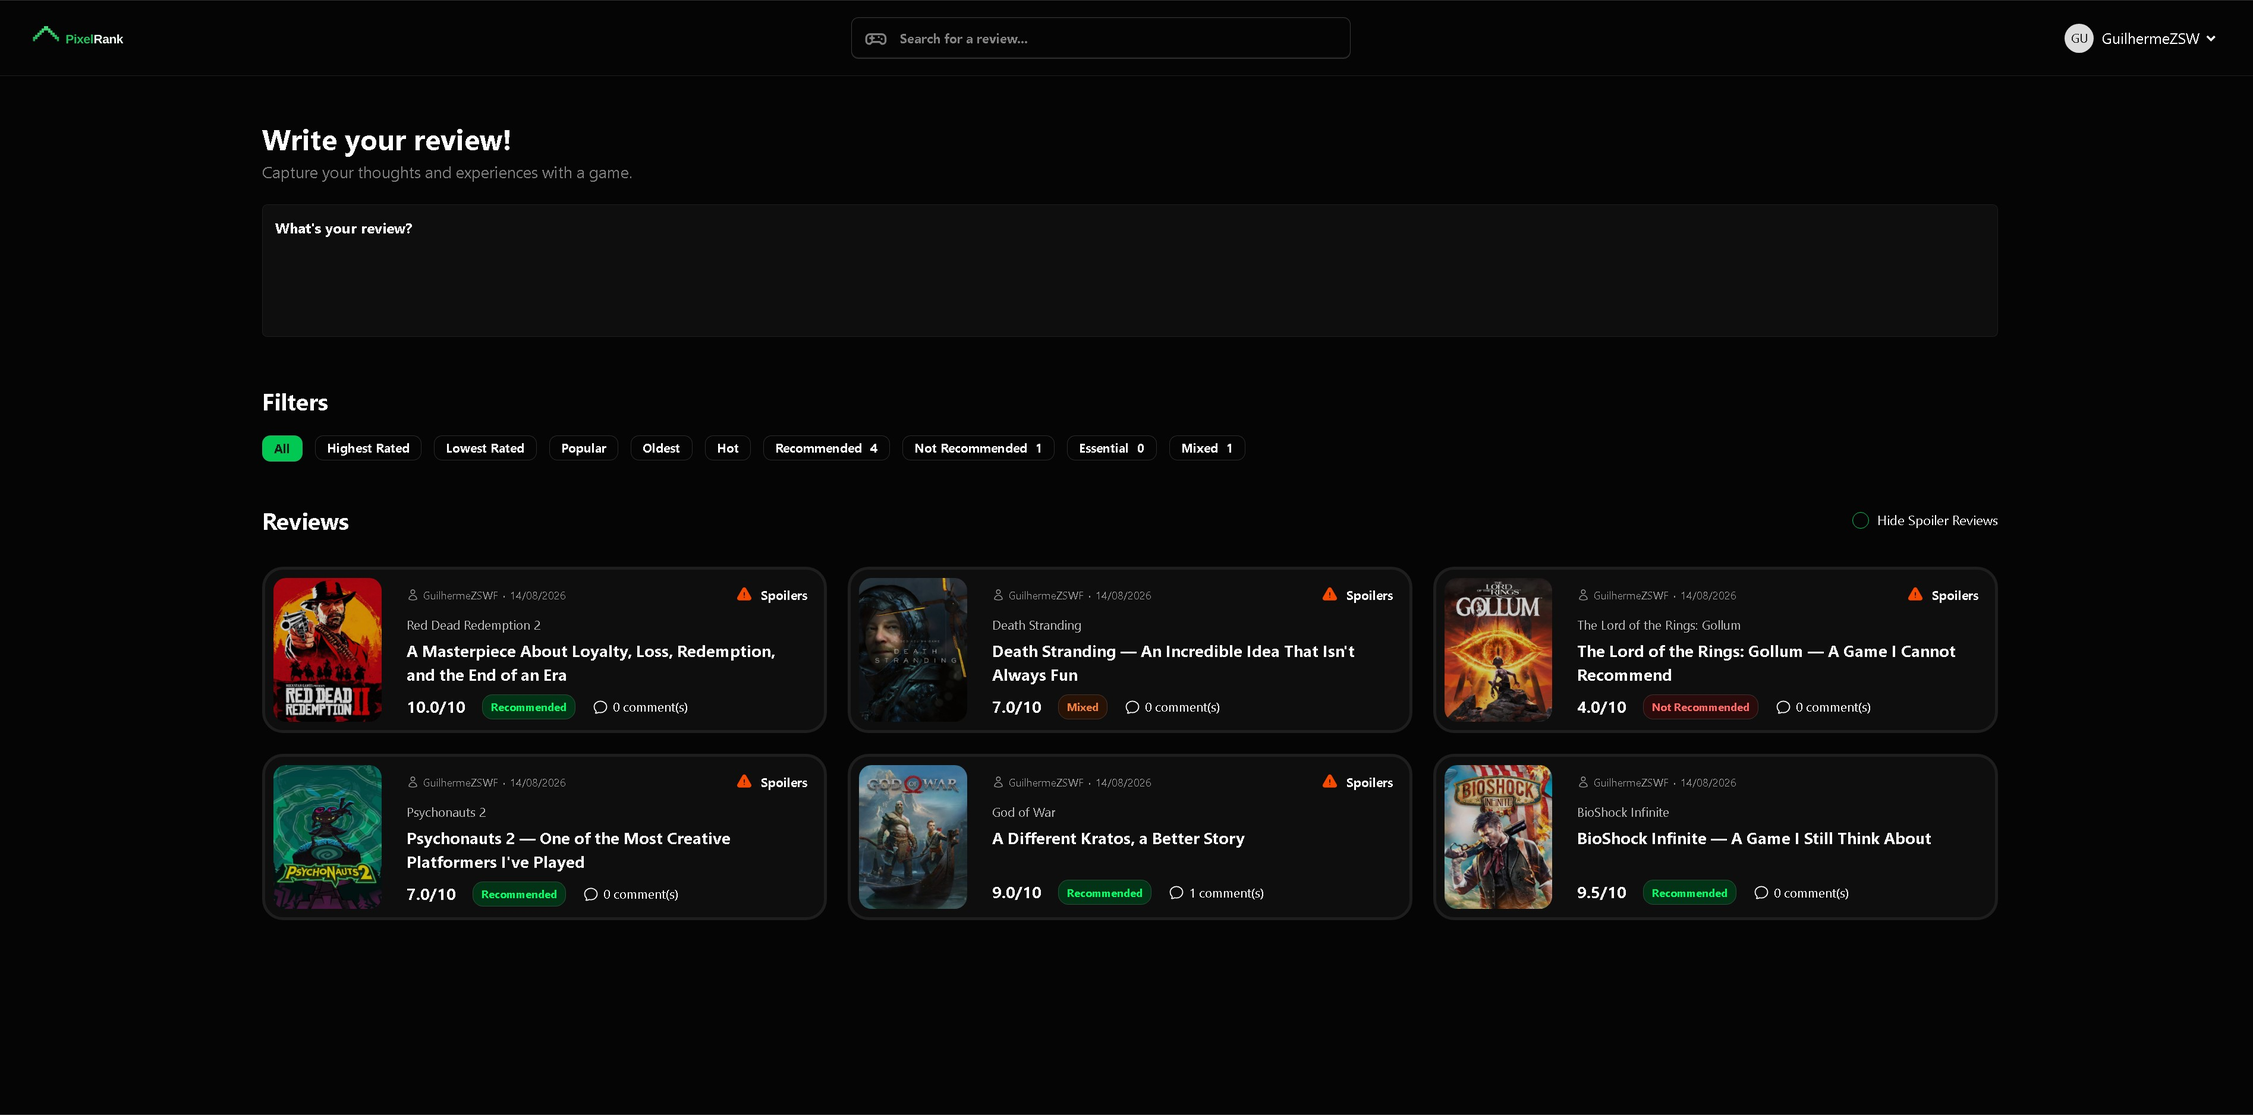
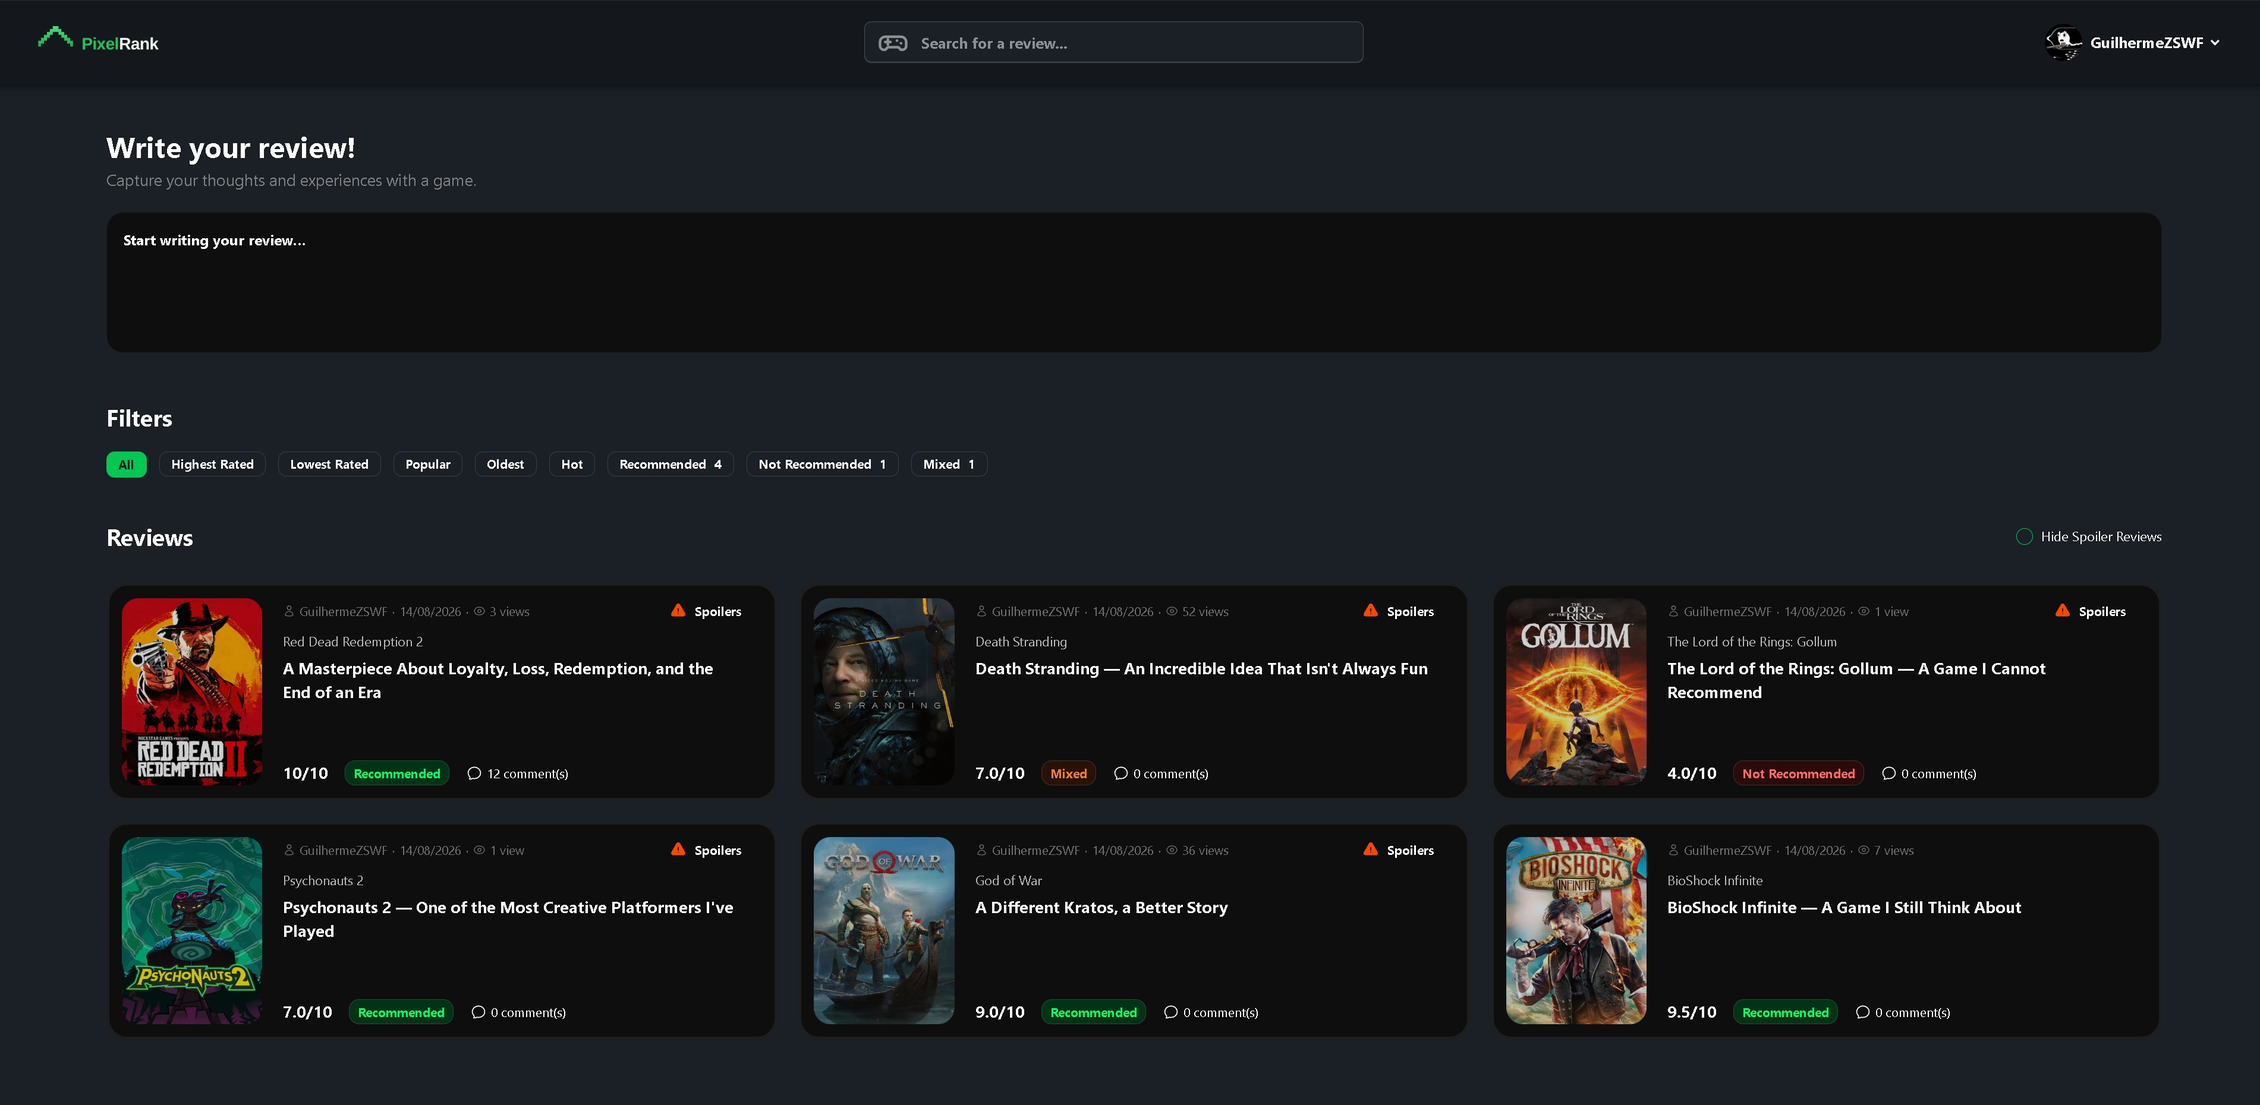
fixed bugs

diff --git a/resources/views/components/article-link.blade.php b/resources/views/components/article-link.blade.php
@@ -6,14 +6,14 @@
             class="sm:w-full md:flex-1/4 lg:flex-1/4 bg-[#0E0E0E]" @endif>
             <article
                 class="rounded-[10px] border-3 border-[#88888822] group hover:border-primary hover:bg-[#141414] transition-all duration-300 ease-in-out">
-                <div class="flex flex-row">
-                    <x-cover class="h-[140px] rounded-[12px] object-contain" src="https://images.igdb.com/igdb/image/upload/t_1080p/{{ $review->game_cover }}.jpg"
+                <div class="flex flex-row p-3">
+                    <x-cover class="h-[140px] rounded-[5px] object-contain" src="https://images.igdb.com/igdb/image/upload/t_1080p/{{ $review->game_cover }}.jpg"
                         alt="Review Cover"></x-cover>
-                    <div class="py-4 px-3 flex flex-row justify-between w-full">
+                    <div class="flex flex-row justify-between w-full px-5">
                         <div class="flex flex-col justify-between flex-5/6">
                             <h2 class="font-bold text-[1rem] flex flex-row gap-3 items-center">{{ $review->title }} <span class="text-[1rem]">&middot;</span> <span class="flex flex-row items-center gap-1 opacity-50 text-[.80rem]">
                                     <x-heroicon-o-eye
-                                        class="size-3.5" />{{ $review->views }} @if($review->views === 0 || $review->views === 1 ) view @else views @endif
+                                        class="size-3.5" />{{ $review->views }} @if($review->views === 0 || $review->views === 1) view @else views @endif
                                 </span></h2>
                             <p class="text-sm text-gray-400 text-[.85rem] py-2 break-all">{{ Str::limit($review->body, 250) }}
                             </p>
@@ -41,21 +41,20 @@
         </a>
 @else
     <a href="/reviews/{{ $review->id }}"
-    class="bg-[#0E0E0E] {{ $review->contains_spoilers ? 'review-link-spoiler' : '' }} h-60 rounded-[20px]">
+    class="bg-[#0E0E0E] {{ $review->contains_spoilers ? 'review-link-spoiler' : '' }} rounded-[20px]">
         <article
-            class="rounded-[20px] p-1 h-[100%] border-3 border-[#88888822] group hover:border-primary hover:bg-[#141414] transition-all duration-300 ease-in-out">
-            <div class="flex flex-row justify-between h-full">
-                <x-cover class="h-full object-contain rounded-[20px]"
-                    src="https://images.igdb.com/igdb/image/upload/t_1080p/{{ $review->game_cover }}.jpg" alt="Review Cover"></x-cover>
-                    <div class="flex flex-col justify-start gap-2 flex-5/6 px-4 py-3">
+            class="rounded-[20px] p-1 border-3 border-[#88888822] group hover:border-primary hover:bg-[#141414] transition-all duration-300 ease-in-out">
+            <div class="flex flex-row justify-between h-full p-2">
+                    <x-cover class="h-45 rounded-2xl object-contain" src="https://images.igdb.com/igdb/image/upload/t_1080p/{{ $review->game_cover }}.jpg" alt="Review Cover"></x-cover>
+                    <div class="flex flex-col justify-start gap-2 flex-5/6 px-5">
                         <ul class="flex flex-row justify-between items-center gap-3 text-[.75rem]">
                             <li class="flex flex-row justify-center items-center gap-1 opacity-40">
                                 <span class="flex flex-row items-center gap-1">
                                     <x-heroicon-o-user class="size-3" />{{ $review->user->nickname }}
                                 </span> <span class="text-[1rem]">&middot;</span>
-                                {{ $review->getPublishedDate() }} <span class="text-[1rem]">&middot;</span> <span class="flex flex-row items-center gap-1">
+                                {{ $review->getPublishedDate() }} <span class="text-[1rem]">&middot;</span> <span class="flex flex-row items-center gap-1 text-[.75rem]">
                                     <x-heroicon-o-eye
-                                        class="size-3" />{{ $review->views }} @if($review->views === 0 || $review->views === 1 ) view @else views @endif
+                                        class="size-3" />{{ $review->views }} @if($review->views === 0 || $review->views === 1) view @else views @endif
                                 </span>
                             </li>
                             @if($review->contains_spoilers)
@@ -66,17 +65,15 @@
                             <h2 class="font-bold text-[.95rem] flex flex-col gap-1"><span
                                     class="group-hover:text-accent font-normal transition-all duration-300 ease-in-out break-all wrap-break-word text-[.80rem] opacity-70">{{Str::limit($review->game_name, 190)}}</span>{{Str::limit($review->title, 150)}}
                             </h2>
-                            <p class="pt-2">{{ Str::limit($review->body, 100) }}</p>
                         </div>
                         <ul class="flex flex-row justify-start gap-4">
-                             <li class="text-[.95rem] font-bold">{{ $review->rating }}/10</li>
+                          <li class="text-[.95rem] font-bold">{{ $review->rating === "10.0" ? 10 : $review->rating }}/10</li>
                             <li>
                                 <x-badge-link type="label"
-                                    class="rounded-[10px] px-2 py-0 font-bold text-[0.65rem]">{{ $review->recommendation->label() }}</x-badge-link>
+                                    class="rounded-[10px] px-2 py-0 font-bold text-[.70rem]">{{ $review->recommendation->label() }}</x-badge-link>
                             </li>
                             <li class="flex flex-row items-center gap-1 text-[.75rem]"><x-heroicon-o-chat-bubble-oval-left
                                     class="size-4" />{{ count($review->comments) }} comment(s)</li>
-
                         </ul>
                     </div>
             </div>

diff --git a/resources/views/reviews/show.blade.php b/resources/views/reviews/show.blade.php
@@ -21,16 +21,16 @@
             </nav>
         </x-section>
         <x-section class="flex flex-col">
-            <div class="flex flex-row bg-[#181818] p-3 rounded-2xl">
-                 <x-cover class="h-full w-70 object-contain rounded-[20px]"
+            <div class="flex flex-row bg-[#181818] p-5 rounded-2xl">
+                 <x-cover class="h-full w-60 object-contain rounded-[20px]"
                 src="https://images.igdb.com/igdb/image/upload/t_1080p/{{ $review->game_cover }}.jpg" alt="Review Cover"></x-cover>
-                <div class="flex flex-col justify-between p-4">
+                <div class="flex flex-col justify-between px-7">
                     <h2 class="flex flex-row items-center text-[.85rem] gap-2"><img @if(!empty($review->user->avatar)) src="{{ asset($review->user->avatar) }}" @else src="https://ui-avatars.com/api/?name={{ urlencode($review->user->nickname) }}"@endif alt="User" class="rounded-[50%] h-8 border-2 border-secondary"> <div><span class="opacity-70">Review by </span><strong class="font-bold">{{ $review->user->nickname }}</strong></div><span class="text-[1rem] opacity-70">&middot;</span> <span class="flex flex-row items-center gap-1.5 opacity-70 text-[.80rem]">
                                     <x-heroicon-o-eye
                                         class="size-3.5" />{{ $review->views }} @if($review->views === 0 || $review->views === 1 ) view @else views @endif
                                 </span></h2>
                     <ul class="flex flex-row flex-wrap gap-4 rounded-2xl">
-                        <li class="w-[calc(50%-0.5rem)] ">Plataforma(s)<br><strong>{{ $game['platforms'] }}</strong>
+                        <li class="w-[calc(50%-0.5rem)] ">@if($game['platforms_count'] > 1) Plataformas @else Plataforma @endif<br><strong>{{ $game['platforms'] }}</strong>
                         </li>
                         <li class="w-[calc(50%-0.5rem)] ">Plataforma Jogada<br><strong>{{ $review->platform_playable }}</strong></li>
                         <li class="w-[calc(50%-0.5rem)] ">Lançamento<br><strong>{{ $game['release_date'] }}</strong>
@@ -182,11 +182,11 @@
     <li id="comment-${data.comment.id}" class="flex flex-row gap-4 border-b border-white/8 pt-8 pb-4">
 
         <img src="${avatar}"
-             alt="User" class="rounded-[50%] h-12">
+             alt="User" class="rounded-[50%] h-13">
 
         <div class="w-full">
-            <span class="flex flex-row justify-between mb-5"">
-                 <h3 class="font-bold text-[.90rem] flex flex-col">${data.comment.user.nickname} <span
+            <span class="flex flex-row justify-between mb-3">
+                 <h3 class="font-bold text-[.90rem] flex flex-row gap-2 items-center">${data.comment.user.nickname} <span class="text-[1rem] text-[#ffffff97]">&middot;</span><span
                         class="text-[.75rem] text-[#ffffff97] font-normal">${data.comment.posted_date}</span></h3>
 
                     <ul class="">

diff --git a/resources/views/components/comment.blade.php b/resources/views/components/comment.blade.php
@@ -9,18 +9,11 @@
         class="border-2 border-[#88888833] py-5 px-3.5 rounded-[10px] cursor-pointer group hover:border-primary hover:bg-[#141414] transition-all duration-300 ease-in-out">
         <a href="/reviews/{{ $comment->review->id }}" class="flex flex-row gap-4">
             <x-cover src="{{ $avatarURL }}"
-                alt="User Profile Image" class="rounded-[50%] h-10"></x-cover>
+                alt="User Profile Image" class="rounded-[50%] h-15"></x-cover>
             <div class="w-full">
                 <span class="flex flex-row justify-between">
-                    <h3 class="font-bold text-[.90rem] flex flex-row gap-3 items-center">{{ $comment->user->nickname }}
+                    <h3 class="font-bold text-[.90rem] flex flex-row gap-2 items-center">{{ $comment->user->nickname }}<span class="text-[1rem] text-[#ffffff97]">&middot;</span>
                         <span class="text-[.75rem] text-[#ffffff97] font-normal">{{ $comment->getPostedDate() }}</span></h3>
-                    @can('delete', $comment)
-                        <x-badge-link form="delete-comment" type="button" class="text-red-500 border-none bg-transparent"><x-heroicon-s-trash
-                                class="size-4" /></x-badge-link>
-                        <x-form.form-delete id="delete-comment" method="POST" action="/comments/{{ $comment->id }}">@csrf
-                            @method('DELETE')
-                            <input class="hidden" type="text" name="profile"></x-form.form-delete>
-                    @endcan
                 </span>
                 <p class="break-all mt-3 mb-5">{{ Str::limit($comment->body, 150) }}</p>
                 <p class="text-[.75rem] text-[#ffffff97] font-normal">Comment made in <strong class="font-bold group-hover:text-accent">{{ $comment->review->title }}</strong></p>
@@ -30,10 +23,10 @@
 @else
     <li id="comment-{{ $comment->id }}" class="flex flex-row gap-4 border-b border-white/8 pt-8 pb-4">
         <x-cover src="{{ $avatarURL }}" alt="User Profile Image"
-            class="rounded-[50%] h-12"></x-cover>
+            class="rounded-[50%] h-13"></x-cover>
         <div class="w-full">
-            <span class="flex flex-row justify-between mb-5">
-                <h3 class="font-bold text-[.90rem] flex flex-col">{{ $comment->user->nickname }} <span
+            <span class="flex flex-row justify-between mb-3">
+                <h3 class="font-bold text-[.90rem] flex flex-row gap-2 items-center">{{ $comment->user->nickname }}<span class="text-[1rem] text-[#ffffff97]">&middot;</span> <span
                         class="text-[.75rem] text-[#ffffff97] font-normal">{{ $comment->getPostedDate() }}</span></h3>
                 <ul>
                     @can('delete', $comment)

diff --git a/resources/views/reviews/create.blade.php b/resources/views/reviews/create.blade.php
@@ -42,7 +42,7 @@
             <x-form.field class="flex flex-col gap-4 my-4">
                 <x-form.label for="proscons">The Good & The Bad (max 10 for both)</x-form.label>
                 <div class="flex flex-row justify-between gap-4">
-                    <div class="flex flex-col flex-wrap gap-4 bg-[#181818] rounded-2xl p-4 w-full">
+                    <div class="flex flex-col flex-wrap gap-4 bg-[#0E0E0E] rounded-2xl p-4 w-full">
                          <h3 class="font-bold flex flex-row gap-3 items-center text-[.90rem]"><x-heroicon-o-hand-thumb-up
                                 class="size-4 text-primary" />Pontos positivos</h3>
                         <div class="flex gap-2">
@@ -53,7 +53,7 @@
                         <ul id="pros-list" class="space-y-2"></ul>
                         <p id="pros-empty" class="text-sm text-gray-400">Nenhum ponto adicionado ainda.</p>
                     </div>
-                    <div class="flex flex-col flex-wrap gap-4 bg-[#181818] rounded-2xl p-4 w-full">
+                    <div class="flex flex-col flex-wrap gap-4 bg-[#0E0E0E] rounded-2xl p-4 w-full">
                         <h3 class="font-bold flex flex-row gap-3 items-center text-[.90rem]">
                             <x-heroicon-o-hand-thumb-down class="size-4 text-warning" /> Pontos negativos
                         </h3>

diff --git a/resources/views/components/layout.blade.php b/resources/views/components/layout.blade.php
@@ -14,7 +14,7 @@
 <!-- Site Content -->
 
 <body class="pb-5">
-    <div class="navbar flex flex-row justify-between bg-base-200 xl:px-[3vw] items-center" style="box-shadow: 0px 2px 10px #0000009e;">
+    <div class="navbar flex flex-row justify-between bg-base-200 xl:px-10 items-center" style="box-shadow: 0px 2px 10px #0000009e;">
         <div class="flex flex-row"> <a class="text-xl" href="/"><img src="{{ asset('pixelrank.png') }}"
                     alt="PixelRank" class="object-contain h-full w-40"></a>
         </div>
@@ -30,7 +30,7 @@
                         <path d="M18 13h.01" />
                     </svg>
                     <input type="search" name="search" placeholder="Search for a review..." autocomplete="on"
-                        class="p-2.5 pl-1 text-[.90rem] font-bold border-none focus:transparent focus:outline-none w-120"
+                        class="p-2.5 pl-1 text-[.90rem] font-bold border-none focus:bg-transparent focus:outline-none w-120"
                         required>
                 </label>
             </form>

diff --git a/resources/views/users/edit.blade.php b/resources/views/users/edit.blade.php
@@ -6,7 +6,7 @@
     <div class="flex flex-row justify-between gap-8 mt-[5vh] mx-[2vw]" x-data="{ activeMenu: '{{ $menu }}' }">
         <section class="flex flex-col w-100 border border-[#88888833] bg-[#0E0E0E] rounded-[10px] py-6 h-155 gap-6">
             <div class="flex flex-col justify-center text-center gap-5">
-                <x-cover src="{{ $avatarURL }}" alt="User Profile Image" class="mask mask-circle object-contain h-[15vh]"></x-cover>
+                <x-cover src="{{ $avatarURL }}" alt="User Profile Image" class="mask mask-circle object-contain h-[13vh]"></x-cover>
                 <h1 class="font-bold text-[1.3rem] text-secondary">{{ auth()->user()->nickname }}</h1>
                 <h2 class="font-bold">Bio</h2>
                 <p class="break-all px-7">{{ auth()->user()->bio }}</p>

diff --git a/resources/views/result.blade.php b/resources/views/result.blade.php
@@ -40,7 +40,7 @@
                     <label for="spoiler" class="cursor-pointer">Hide Spoiler Reviews</label>
                 </div>
             </div>
-            <div class="grid grid-cols-[repeat(auto-fit,minmax(500px,1fr))] gap-5">
+            <div class="grid grid-cols-1 md:grid-cols-2 lg:grid-cols-2 xl:grid-cols-3 gap-5">
                 @foreach($reviews as $review)
                     <x-article-link :review="$review"></x-article-link>
                 @endforeach

diff --git a/resources/views/reviews/index.blade.php b/resources/views/reviews/index.blade.php
@@ -47,7 +47,7 @@
                     <label for="spoiler" class="cursor-pointer">Hide Spoiler Reviews</label>
                 </div>
             </div>
-            <div class="grid grid-cols-[repeat(auto-fit,minmax(500px,1fr))] gap-5">
+            <div class="grid grid-cols-1 md:grid-cols-2 lg:grid-cols-2 xl:grid-cols-3 gap-5">
                 @foreach($reviews as $review)
                     <x-article-link :review="$review"></x-article-link>
                 @endforeach

diff --git a/app/Models/Review.php b/app/Models/Review.php
@@ -58,6 +58,7 @@ class Review extends Model
     public function getGameInfo(array $game){
        return [
            'platforms' => $this->getPlatformsFormatted($game['platforms']),
+           'platforms_count' => count($game['platforms']),
            'release_date' => Carbon::createFromTimestamp($game['first_release_date'])->locale('pt_BR')->isoFormat('DD/MM/YYYY'),
            'summary' => $game['summary'],
            'cover' => $game['cover']

diff --git a/resources/views/components/section.blade.php b/resources/views/components/section.blade.php
@@ -1,1 +1,1 @@
-<section {{ $attributes->merge(['class' => 'flex flex-col sm:px-5 md:px-5 xl:px-[3vw]']) }}>{{ $slot }}</section>
+<section {{ $attributes->merge(['class' => 'flex flex-col sm:px-5 md:px-5 xl:px-[5vw]']) }}>{{ $slot }}</section>

diff --git a/resources/views/components/cover.blade.php b/resources/views/components/cover.blade.php
@@ -1,7 +1,7 @@
 @props(['type' => ''])
 
 @php
-    $default = ' opacity-80 p-2';
+    $default = ' opacity-80';
 @endphp
 
 <img {{ $attributes->merge(['class' => $default]) }}>

diff --git a/README.md b/README.md
@@ -4,12 +4,12 @@
 A game review platform inspired by Letterboxd, where users can rate games,
 write reviews, comment, and discover new reviews from the community.
 
-## 🎯 Objetivo
+## 🎯 Objective
 
 PixelRank aims to offer a platform focused on game reviews, inspired by the Letterboxd experience for movies,
 allowing any user to publish, share, and discover game reviews.
 
-## ✨ Funcionalidades
+## ✨ Features
 
 - Review publishing
 - Comment system
@@ -22,7 +22,7 @@ allowing any user to publish, share, and discover game reviews.
 
 Project under development.
 
-## 🛠 Tecnologias
+## 🛠 Tecnologies
 
 ### Backend
 
@@ -37,7 +37,7 @@ Project under development.
 - DaisyUI
 - JavaScript
 
-### Banco de dados
+### Database
 
 - MySQL
 
@@ -45,12 +45,12 @@ Project under development.
 
 - IGDB API
 
-### Ferramentas
+### Tools
 
 - Git
 - Docker (in development)
 
-## 🚀 Instalação
+## 🚀 Install
 
 ```bash
 git clone ...
@@ -160,16 +160,16 @@ PixelRank/
 - [x] Test
 - [ ] Deploy
 
-## 🔐 Segurança
+## 🔐 Security
 
 - Authorization using Laravel Policies
 - Validation via Form Requests
 - Protection against unauthorized actions
 
-## 📄 Licença
+## 📄 License
 
 This project was developed for study and portfolio purposes.
 
-## 🌐 Demonstração
+## 🌐 Demonstration
 
 (soon)
